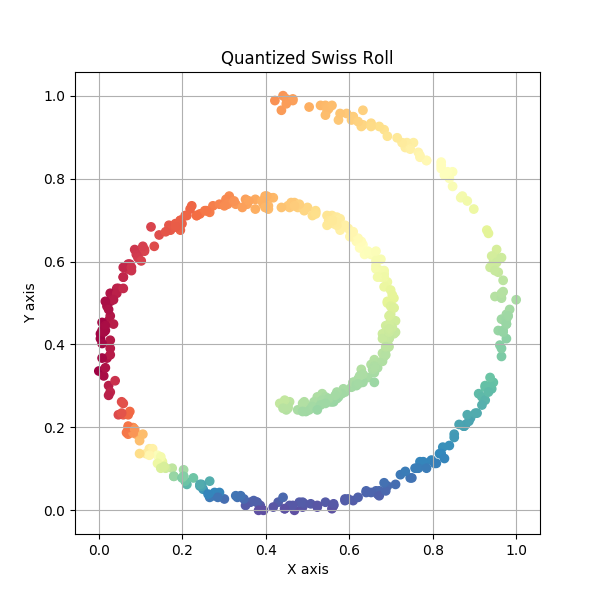
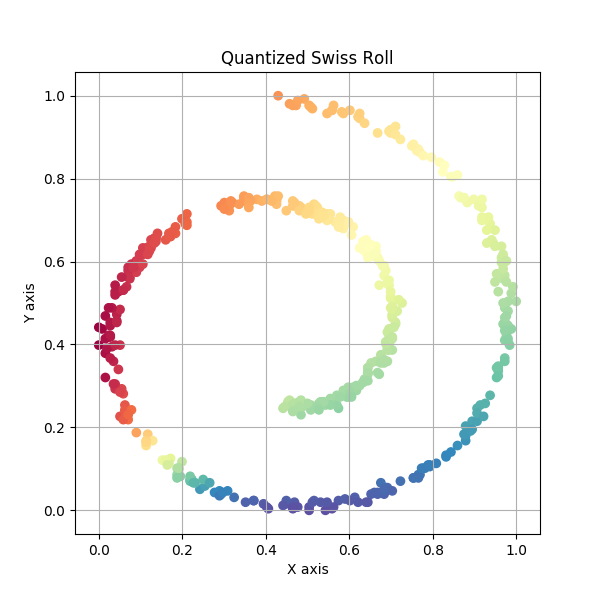
Implement forward noising process

Changed region(s): [[0.15, 0.15, 0.87, 0.87]]

diff --git a/main.py b/main.py
@@ -1,4 +1,5 @@
 import torch
+import torch.utils.data as data
 import torch.nn as nn
 import torch.optim as optim
 from sklearn.datasets import make_swiss_roll
@@ -7,8 +8,11 @@ import matplotlib.pyplot as plt
 
 
 N_SAMPLES = 500  # number of samples for swiss roll dataset
+N_SCHEDULE_STEPS = 100  # number of steps for the diffusion process
+N_HIDDEN = 128  # number of hidden units in the neural network
+N_STATES = 256  # number of states for the swiss roll data
+ABSORBING_STATE = N_STATES  # index of the absorbing state
 
-# 1. Dataset Creation
 def create_quantized_swiss_roll(n_samples=1000, noise=0.2, random_state=None):
     data, _ = make_swiss_roll(n_samples, noise=noise, random_state=random_state)
     data = data[:, [0, 2]]  # we only take the first and last column.
@@ -17,46 +21,75 @@ def create_quantized_swiss_roll(n_samples=1000, noise=0.2, random_state=None):
 
     # Normalize and quantize the data
     data = (data - min_val) / (max_val - min_val)
-    data = np.floor(data * 256)  # Quantize to 256 bins
-    return torch.Tensor(data).long()
+    data = np.floor(data * N_STATES)  # Quantize to 256 bins
 
-# 2. Model Definition
+    # Add an absorbing state column initialized to zero (no points absorbed yet)
+    absorbing_state_column = np.zeros((n_samples, 1), dtype=int)
+    data_with_absorbing_state = np.hstack((data, absorbing_state_column))
+    return torch.Tensor(data_with_absorbing_state).long()
+
+# Assume a linear noise schedule for simplicity
+def noise_schedule(t):
+    return t / N_SCHEDULE_STEPS
+
+class NoisySwissRollDataset(data.Dataset):
+    def __init__(self, data):
+        self.data = data
+
+    def __len__(self):
+        return len(self.data)
+
+    def apply_noising(self, data_point, t):
+        noise_level = noise_schedule(t)
+        noisy_data = data_point.clone().detach()
+        noisy_data[:-1] += (torch.rand(2) < noise_level).long() * (ABSORBING_STATE - noisy_data[:-1])
+        if (noisy_data[:-1] >= ABSORBING_STATE).any():
+            noisy_data[-1] = 1  # Mark the point as absorbed
+        return noisy_data
+
+    def __getitem__(self, idx):
+        t = torch.randint(0, N_SCHEDULE_STEPS, (1,)).item()
+        data_point = self.data[idx]
+        return self.apply_noising(data_point, t), t
+
 class DiffusionModel(nn.Module):
     def __init__(self):
         super(DiffusionModel, self).__init__()
-        # Define your neural network blocks here
-
+        # A simple network with two hidden layers and ReLU activations
+        self.network = nn.Sequential(
+            nn.Linear(2, N_HIDDEN),  # 2 input features, since it's 2D data
+            nn.ReLU(),
+            nn.Linear(N_HIDDEN, N_HIDDEN),
+            nn.ReLU(),
+            nn.Linear(N_HIDDEN, 2)  # 2 output features (denoised x, y)
+        )
+    
     def forward(self, x, t):
-        # Define the forward pass using time embedding t
-        return x
+        # You could include the time information t in your network input if desired
+        # For now, we just ignore t
+        return self.network(x)
 
-
-# 3. Training Loop
 def train(model, dataset_loader, epochs=10):
     optimizer = optim.Adam(model.parameters(), lr=1e-3)
+    criterion = nn.MSELoss()
+    model.train()  # set the model to training mode
     
     for epoch in range(epochs):
-        for i, data in enumerate(dataset_loader, 0):
-            # Forward pass
-            # Compute loss
-            # Backward pass and optimize
-            pass  # Replace with actual training code
+        for i, (noisy_data, _) in enumerate(dataset_loader):
+            optimizer.zero_grad()  # clear previous gradients
+            prediction = model(noisy_data.float(), t=None)  # forward pass without time embedding for simplicity
+            loss = criterion(prediction, noisy_data.float())  # compute loss
+            loss.backward()  # backward pass to calculate gradients
+            optimizer.step()  # update model parameters
+            
+            print(f"Epoch [{epoch+1}/{epochs}], Step [{i+1}/{len(dataset_loader)}], Loss: {loss.item():.4f}")
 
-# 4. Sampling
 def sample(model, num_samples=100, num_steps=1000):
     samples = torch.zeros(num_samples, 2).long()  # Replace with actual sampling code
     # Implement the reverse diffusion process here
     return samples
 
 def plot_swiss_roll(data, save_path="plots/swiss_roll.png"):
-    """
-    Plots a quantized swiss roll.
-    
-    Args:
-        data (array-like): The swiss roll dataset (N x 2 or N x 3).
-        title (str): Title of the plot.
-        save_path (str): Path to save the plot image. If None, the plot is not saved.
-    """
     plt.figure(figsize=(6, 6))
     plt.scatter(data[:, 0], data[:, 1], c=np.arctan2(data[:, 0], data[:, 1]), cmap=plt.cm.Spectral)
     plt.xlabel('X axis')
@@ -77,21 +110,52 @@ def visualize_data():
     # Plot and visualize the swiss roll
     plot_swiss_roll(quantized_data)
 
+def visualize_noising_process():
+    original_data = create_quantized_swiss_roll(n_samples=N_SAMPLES)
+    dataset = NoisySwissRollDataset(original_data)
+
+    vis_steps = 5  # Number of visualization steps
+
+    # Calculate original colors based on initial positions
+    original_colors = np.arctan2(original_data[:, 0], original_data[:, 1]) / N_STATES
+
+    _, axes = plt.subplots(1, vis_steps, figsize=(15, 3))
+    for i in range(vis_steps):
+        time_step = int(i * (N_SCHEDULE_STEPS / (vis_steps - 1)))
+        if time_step > N_SCHEDULE_STEPS:
+            time_step = N_SCHEDULE_STEPS
+        
+        data_noised = np.array([
+            dataset.apply_noising(dataset.data[j], time_step)[:2].numpy() / N_STATES
+            for j in range(len(dataset))
+        ])
+
+        axes[i].scatter(data_noised[:, 0], data_noised[:, 1], c=original_colors, cmap=plt.cm.Spectral)
+        axes[i].set_title(f'Time step: {time_step}')
+        axes[i].set_xlim(0, 1)
+        axes[i].set_ylim(0, 1)
+
+    plt.tight_layout()
+    plt.savefig("plots/noising_process.png")
+    plt.show()
+
 def main():
     # Generating the dataset
     dataset = create_quantized_swiss_roll()
-    dataset_loader = torch.utils.data.DataLoader(dataset, batch_size=128, shuffle=True)
+    noisy_dataset = NoisySwissRollDataset(dataset)
+    dataset_loader = torch.utils.data.DataLoader(noisy_dataset, batch_size=128, shuffle=True)
 
     # Instantiate the model
     model = DiffusionModel()
 
-    # Generate new data points
-    generated_samples = sample(model)
-
     # Training the model
     train(model, dataset_loader)
 
+    # Generate new data points
+    # generated_samples = sample(model)
+
 
 if __name__ == "__main__":
-    visualize_data()
+    # visualize_data()
     # main()
+    visualize_noising_process()
